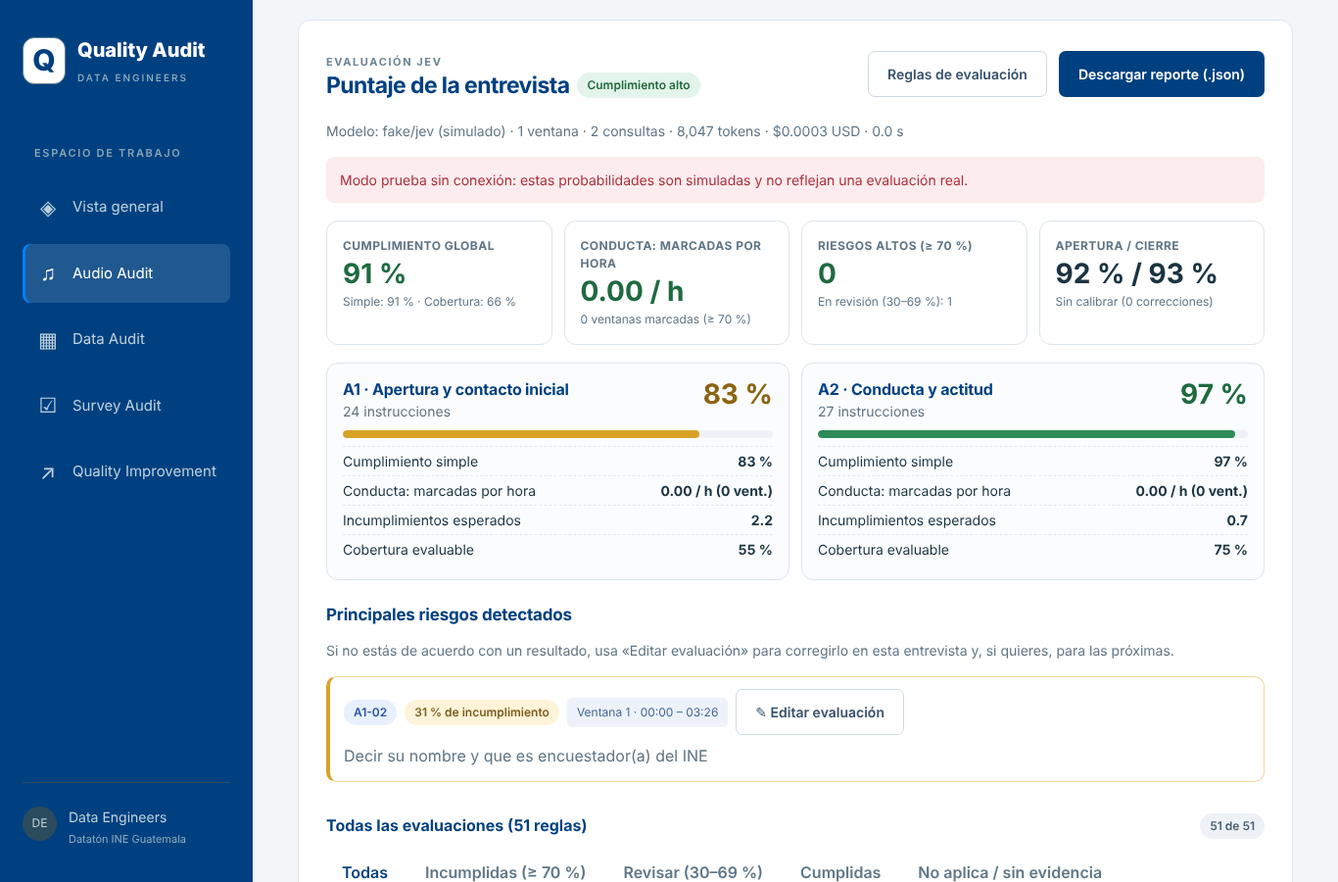
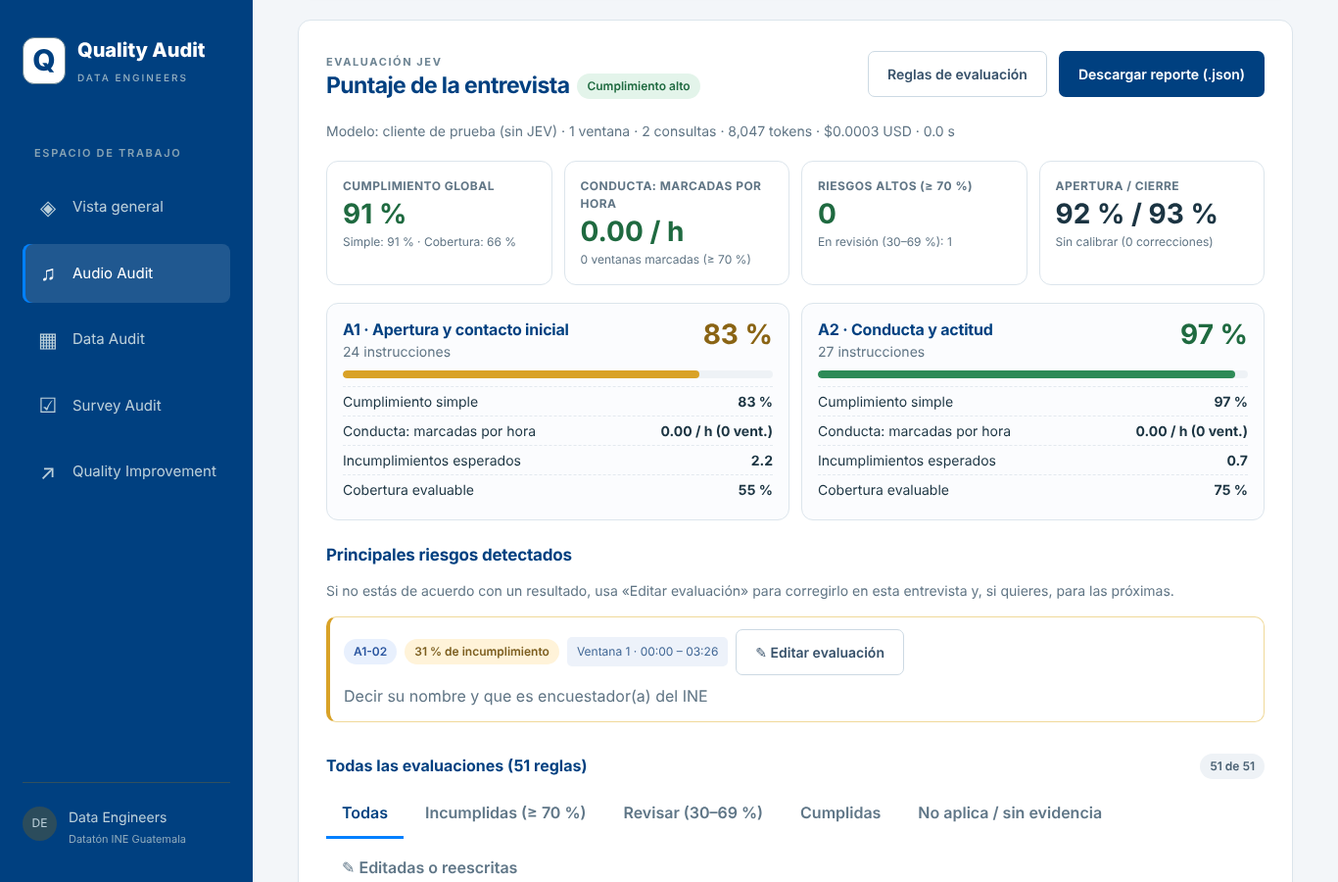
Inicio con los cuatro módulos; Audio Audit sin ejemplo ni modo de prueba
- Vista general: tarjetas de Audio Audit, Data Audit, Survey Audit y Quality
  Improvement, cada una con su descripción y botón.
- Audio Audit: se quita el botón «Cargar ejemplo ENCOVI» y la casilla de modo
  de prueba; sin OPENROUTER_API_KEY se avisa que falta la llave.
- La entrevista ENCOVI sintética queda en documentation/ejemplos para cargarla
  como transcripción; capturas y documentación actualizadas.

Claude-Session: https://claude.ai/code/session_019V7GBCsyFM1Th2xXTWXqYi

diff --git a/interfaz/src/audio.ts b/interfaz/src/audio.ts
@@ -122,7 +122,6 @@ export function mountAudio(): { abrir: (jobId: string, audioLocal?: string) => P
   let audioUrl: string | null = null;
   let roles: Record<string, Rol> = {};
   let primeraVisita = true;
-  let simulado = false;
   let reproductor: HTMLAudioElement | null = null;
   let lista: HTMLElement | null = null;
 
@@ -144,7 +143,7 @@ export function mountAudio(): { abrir: (jobId: string, audioLocal?: string) => P
       chip(jevListo ? `Evaluación JEV lista · ${estado?.jev_model ?? ''}` : 'Evaluación JEV: falta la llave OPENROUTER_API_KEY', jevListo ? 'ok' : 'warn'),
       button(`Reglas de evaluación (${reglas.length || 51})${estado?.customized_rules_count ? ` · ${estado.customized_rules_count} editadas` : ''}`, () => abrirCatalogo(), 'secondary'),
       button(calibracion?.is_calibrated ? `Calibración activa (${Object.values(calibracion.groups ?? {}).filter(g => g.fitted).length} grupos)` : `Calibración: ${calibracion?.total_labels ?? 0} correcciones`, () => abrirCalibracion(), 'secondary'));
-    const aviso = jevListo ? null : h('p', { class: 'muted', text: 'Para calcular el puntaje con JEV, agrega OPENROUTER_API_KEY (secreta) en las variables de Vercel. Mientras tanto puedes usar el modo de prueba, con puntajes simulados.' });
+    const aviso = jevListo ? null : h('p', { class: 'muted', text: 'Para calcular el puntaje con JEV, agrega OPENROUTER_API_KEY (secreta) en las variables de Vercel..' });
 
     const archivo = input('file', '', { accept: '.json,.txt,application/json,text/plain' });
     const cargar = button('Cargar transcripción', () => run(cargar, msg, async () => {
@@ -157,11 +156,6 @@ export function mountAudio(): { abrir: (jobId: string, audioLocal?: string) => P
       await mostrar(t, null); void refrescar();
       return 'Transcripción cargada. Asigna los roles y evalúa la entrevista.';
     }), 'primary');
-    const ejemplo: HTMLButtonElement | null = estado?.example_available === false ? null : button('Cargar ejemplo ENCOVI', () => run(ejemplo, msg, async () => {
-      const t = await api<Trabajo>('transcript/example', 'POST');
-      await mostrar(t, null); void refrescar();
-      return 'Ejemplo cargado.';
-    }), 'secondary');
 
     const historial = recientes.length ? h('div', { class: 'historial-audio' }, ...recientes.slice(0, 10).map(j => {
       const b = h('button', { type: 'button', class: `historial-item${actual?.job_id === j.job_id ? ' activo' : ''}` },
@@ -177,7 +171,7 @@ export function mountAudio(): { abrir: (jobId: string, audioLocal?: string) => P
       h('div', { class: 'editor-grid audio-extra' },
         h('section', { class: 'card' }, h('h2', { text: '¿Ya tienes la transcripción?' }),
           h('p', { class: 'muted', text: 'Sube un JSON de turnos o un TXT con marcas de hablante (por ejemplo, los que descargas aquí) para evaluarlo sin volver a transcribir.' }),
-          field('Transcripción (.json o .txt)', archivo), h('div', { class: 'form-actions' }, cargar, ejemplo)),
+          field('Transcripción (.json o .txt)', archivo), h('div', { class: 'form-actions' }, cargar)),
         h('section', { class: 'card' }, h('h2', { text: 'Entrevistas recientes' }), historial)));
   }
 
@@ -268,13 +262,11 @@ export function mountAudio(): { abrir: (jobId: string, audioLocal?: string) => P
     });
     const primera = input('checkbox'); primera.checked = primeraVisita;
     primera.addEventListener('change', () => { primeraVisita = primera.checked; });
-    const prueba = input('checkbox'); prueba.checked = simulado;
-    prueba.addEventListener('change', () => { simulado = prueba.checked; });
     const evaluar = button(t.evaluation ? 'Volver a evaluar con JEV' : 'Evaluar con JEV', () => run(evaluar, local, async () => {
       if (!Object.values(roles).includes('ENCUESTADOR')) throw new Error('Indica qué hablante es el encuestador antes de evaluar.');
-      if (!simulado && !estado?.openrouter_configured) throw new Error('Falta la llave OPENROUTER_API_KEY en el servidor. Agrégala en Vercel o activa el modo de prueba.');
-      local.show(simulado ? 'Calculando una evaluación simulada…' : 'Evaluando la entrevista con JEV… puede tardar unos minutos.');
-      const nuevo = await api<Trabajo>(`jobs/${encodeURIComponent(t.job_id)}/evaluate`, 'POST', { speaker_map: roles, first_contact: primeraVisita, mock: simulado }, 300_000);
+      if (!estado?.openrouter_configured) throw new Error('Falta la llave OPENROUTER_API_KEY en el servidor. Agrégala en las variables de Vercel.');
+      local.show('Evaluando la entrevista con JEV… puede tardar unos minutos.');
+      const nuevo = await api<Trabajo>(`jobs/${encodeURIComponent(t.job_id)}/evaluate`, 'POST', { speaker_map: roles, first_contact: primeraVisita, mock: false }, 300_000);
       actual = nuevo; pintar(); void refrescar();
       window.setTimeout(() => zona.querySelector('.reporte-jev')?.scrollIntoView({ behavior: 'smooth', block: 'start' }), 120);
     }), 'primary');
@@ -309,7 +301,6 @@ export function mountAudio(): { abrir: (jobId: string, audioLocal?: string) => P
         h('p', { class: 'muted', text: 'Confirma quién es el encuestador y quién el informante; luego ejecuta la evaluación. Se aplican las reglas que hayas reescrito.' }),
         h('div', { class: 'roles-hablantes' }, ...selects),
         h('label', { class: 'check' }, primera, 'Primera visita / contacto inicial (evalúa las reglas de apertura A1)'),
-        h('label', { class: 'check' }, prueba, 'Modo de prueba (puntajes simulados, sin consultar a JEV)'),
         h('div', { class: 'form-actions' }, evaluar), local),
       leyendaEl, lista);
   }
@@ -507,7 +498,7 @@ export function mountAudio(): { abrir: (jobId: string, audioLocal?: string) => P
         update_future_rule: conRegla, rule_override: conRegla ? form.datos() : null,
       });
       actual = resp.job;
-      if (reevaluar) actual = await api<Trabajo>(`jobs/${encodeURIComponent(t.job_id)}/evaluate`, 'POST', { speaker_map: roles, first_contact: primeraVisita, mock: simulado }, 300_000);
+      if (reevaluar) actual = await api<Trabajo>(`jobs/${encodeURIComponent(t.job_id)}/evaluate`, 'POST', { speaker_map: roles, first_contact: primeraVisita, mock: false }, 300_000);
       m.cerrar(); pintar(); void refrescar();
       msg.show(reevaluar ? 'Cambios guardados y entrevista evaluada de nuevo.' : 'Evaluación corregida.');
     };

diff --git a/interfaz/index.html b/interfaz/index.html
@@ -41,10 +41,12 @@
       <section id="inicio" class="page" aria-labelledby="inicioTitle">
         <p class="eyebrow">CALIDAD DE INFORMACIÓN / VISTA GENERAL</p>
         <h1 id="inicioTitle" tabindex="-1">Cada dato cuenta.<br><span>Su calidad también.</span></h1>
-        <p class="lead">Un solo espacio para transformar entrevistas en evidencia y revisar la calidad de los registros institucionales.</p>
+        <p class="lead">Un solo espacio para prevenir errores al capturar, verificar entrevistas, depurar los registros institucionales y evitar que los errores se repitan.</p>
         <div class="module-grid">
-          <article class="card module-card"><div class="module-symbol blue" aria-hidden="true">♫</div><span class="eyebrow">ENTREVISTAS Y CONVERSACIONES</span><h2>Audio Audit</h2><p>Escucha, transcribe y revisa entrevistas con marcas de tiempo e identificación de hablantes.</p><ul class="feature-list"><li>Transcripción en español</li><li>Reducción de ruido y separación de voces</li><li>Audio y texto en una misma vista</li></ul><a class="button primary" href="#audio">Transcribir entrevista</a></article>
-          <article class="card module-card"><div class="module-symbol teal" aria-hidden="true">▦</div><span class="eyebrow">REGISTROS ADMINISTRATIVOS</span><h2>Data Audit</h2><p>Evalúa las bases recibidas y encuentra problemas de calidad antes de continuar con el análisis.</p><ul class="feature-list"><li>Validación por base y período</li><li>Resultados por dimensión de calidad</li><li>Hallazgos y archivos para revisión</li></ul><a class="button primary teal-button" href="#datos">Auditar una base</a></article>
+          <article class="card module-card"><div class="module-symbol blue" aria-hidden="true">♫</div><span class="eyebrow">SUPERVISIÓN DE ENTREVISTAS</span><h2>Audio Audit</h2><p>Transcribe la grabación de una entrevista y evalúa si el encuestador siguió el protocolo del manual, con la evidencia de cada minuto.</p><ul class="feature-list"><li>Transcripción en español con separación de voces</li><li>Evaluación de 51 reglas del manual con JEV</li><li>Puntaje, riesgos y corrección del auditor</li></ul><a class="button primary" href="#audio">Evaluar una entrevista</a></article>
+          <article class="card module-card"><div class="module-symbol teal" aria-hidden="true">▦</div><span class="eyebrow">REGISTROS ADMINISTRATIVOS</span><h2>Data Audit</h2><p>Revisa las bases que envían las instituciones, corrige lo seguro y deja el resto como sugerencias para aprobar.</p><ul class="feature-list"><li>33 reglas en 7 dimensiones de calidad</li><li>Bandeja de correcciones con catálogos oficiales</li><li>Base corregida, bitácora y reporte</li></ul><a class="button primary teal-button" href="#datos">Auditar una base</a></article>
+          <article class="card module-card"><div class="module-symbol blue" aria-hidden="true">☑</div><span class="eyebrow">CAPTURA VALIDADA</span><h2>Survey Audit</h2><p>Convierte el cuestionario en PDF en un formulario que solo acepta respuestas válidas y compara lo registrado con la grabación.</p><ul class="feature-list"><li>Formulario con catálogos y saltos desde el PDF</li><li>Validación al capturar y al finalizar</li><li>Verificación contra la grabación con evidencia</li></ul><a class="button primary" href="#encuestas">Crear un formulario</a></article>
+          <article class="card module-card"><div class="module-symbol teal" aria-hidden="true">↗</div><span class="eyebrow">MEJORA CONTINUA</span><h2>Quality Improvement</h2><p>Convierte los hallazgos de Data Audit en recomendaciones aprobadas y en un manual para la institución que envía los datos.</p><ul class="feature-list"><li>Recomendaciones por institución, base y período</li><li>Revisión y aprobación con cargo</li><li>Manual institucional en PDF</li></ul><a class="button primary teal-button" href="#mejora">Generar recomendaciones</a></article>
         </div>
         <section class="workflow" aria-label="Flujo de trabajo"><div><span>CARGA</span><h3>Selecciona tu archivo</h3><p>Audio de entrevista o base institucional.</p></div><div><span>PROCESA</span><h3>Obtén una primera lectura</h3><p>Transcripciones y controles de calidad.</p></div><div><span>REVISA</span><h3>Decide con evidencia</h3><p>La revisión técnica sigue en tus manos.</p></div></section>
       </section>

diff --git a/documentation/user-guide.md b/documentation/user-guide.md
@@ -12,7 +12,7 @@ Guía para el personal técnico del INE y de las instituciones. No se necesitan 
 
 ## 2. Navegación
 
-El menú de la izquierda tiene cinco opciones. **Vista general** resume la plataforma; las otras cuatro son los módulos.
+El menú de la izquierda tiene cinco opciones. **Vista general** muestra los cuatro módulos, cada uno con su descripción y un botón para empezar: **Evaluar una entrevista** (Audio Audit), **Auditar una base** (Data Audit), **Crear un formulario** (Survey Audit) y **Generar recomendaciones** (Quality Improvement).
 
 ![Vista general](img/02-inicio.png)
 
@@ -85,7 +85,7 @@ Para cerrar, registrar la **decisión técnica** (aprobar o rechazar la base) co
 
 ## 4. Audio Audit: supervisar una entrevista
 
-**Ejemplo para practicar:** botón **Cargar ejemplo ENCOVI** (entrevista sintética con incumplimientos sembrados).
+**Ejemplo para practicar:** `entrevista_encovi_sintetica.json` (entrevista ENCOVI sintética con incumplimientos sembrados), cargado desde **¿Ya tienes la transcripción?**.
 
 ### 4.1 Transcribir una grabación
 
@@ -101,7 +101,7 @@ Si ya se tiene la transcripción, usar **¿Ya tienes la transcripción? → Carg
 
 1. En **Evaluar la entrevista con JEV**, indicar qué voz es *Encuestador(a)*, *Informante* u *Otra persona*. Debajo de cada voz se muestran sus primeras frases para reconocerla.
 2. Marcar **Primera visita / contacto inicial** si se deben evaluar las reglas de apertura.
-3. Pulsar **Evaluar con JEV**. Si el servidor no tiene configurado JEV, se puede usar el **Modo de prueba**, que muestra puntajes simulados claramente identificados como tales.
+3. Pulsar **Evaluar con JEV**. La evaluación tarda de segundos a unos minutos según la duración de la entrevista.
 
 ![Asignar roles](img/21-audio-roles.png)
 
@@ -111,6 +111,8 @@ Si ya se tiene la transcripción, usar **¿Ya tienes la transcripción? → Carg
 - **Cumplimiento global** y por sección (A1 Apertura y contacto inicial, A2 Conducta y actitud), **cobertura** (cuántas reglas se pudieron evaluar) y **conducta marcada por hora**.
 - **Principales riesgos**: cada uno con la regla, la probabilidad de incumplimiento, el minuto y la frase de la grabación que lo respalda.
 - **Todas las evaluaciones (51 reglas)** con filtros: incumplidas, a revisar, cumplidas, no aplica.
+
+Las capturas de esta sección se tomaron en el entorno de pruebas con un cliente JEV de prueba (indicado en la línea «Modelo»), sin consumir la API.
 
 ![Puntaje](img/22-audio-puntaje.png)
 ![Riesgos](img/23-audio-riesgos.png)
@@ -202,5 +204,5 @@ Cada respuesta queda como **Coincide**, **No coincide** o **No verificable**, co
 | «El archivo supera el límite» | Dividir el archivo (máximo 50 MB). |
 | La lectura del PDF parece detenida | Esperar: si el servicio de IA está ocupado, la plataforma reintenta sola. Se puede continuar después. |
 | «Primero vincula la transcripción» | Hacer el paso 5.3.1 antes de validar. |
-| El puntaje de audio dice «simulado» | El servidor no tiene JEV configurado; el resultado no es una evaluación real. |
+| «Falta la llave OPENROUTER_API_KEY» al evaluar | El administrador debe configurar JEV en el servidor. |
 | Se aprobó una corrección por error | Data Audit → **Correcciones guardadas** → quitarla y volver a validar la base. |

diff --git a/documentation/testing.md b/documentation/testing.md
@@ -14,7 +14,7 @@ Estado: ✅ verificado · 🟡 parcial (con la limitación indicada).
 | T02 | **Inicio de servicios** | — | `uvicorn api.index:app`; `vite preview`; `/api/salud` | API e interfaz responden; protección por host | `{"ok":true,"login":false,"entorno":"local"}`; `/api/qa/bases` lista 5; host ajeno → 403 | ✅ |
 | T03 | **Carga de audio** | Audio de prueba (sin voz) y Supabase simulado | Pedir URL firmada, subir y crear trabajo | URL firmada, archivo en bucket privado, `job_id` | Flujo completo con almacenamiento simulado (`flujo.py`: «FLUJO OK»); límite de 50 MB validado en la interfaz | 🟡 con Storage simulado; en producción lo usa el equipo |
 | T04 | **Transcripción** | — | AssemblyAI / Deepgram / WhisperX | Turnos con hablante y tiempos | Sin grabación real autorizada; se probaron la carga de transcripciones (JSON/TXT) y la normalización de hablantes | 🟡 · **WER y DER no medidos** |
-| T05 | **Auditoría de entrevista** | Transcripción ENCOVI sintética con errores sembrados (A1-08, A1-11, A1-12, A2-10) | Asignar roles → evaluar → revisar reporte → editar una regla → calibración | Veredicto, puntaje por sección, riesgos con evidencia, edición recalcula | Evaluación simulada: 91 % global (A1 83 %, A2 97 %); tras editar una regla → 89 %; 51 reglas listadas; 30 pruebas unitarias de JEV en verde | ✅ con JEV simulado · **exactitud de JEV no medida** |
+| T05 | **Auditoría de entrevista** | Transcripción ENCOVI sintética con errores sembrados (A1-08, A1-11, A1-12, A2-10) | Cargar la transcripción → asignar roles → evaluar → revisar reporte → editar una regla → calibración | Veredicto, puntaje por sección, riesgos con evidencia, edición recalcula | Con un cliente JEV de prueba (sin consumo de API): 91 % global (A1 83 %, A2 97 %); tras editar una regla → 89 %; 51 reglas listadas; 30 pruebas unitarias de JEV en verde | ✅ con cliente JEV de prueba · **exactitud de JEV no medida** |
 | T06 | **Carga de PDF** | PDF sintético de 5 páginas; Cuestionario ENCOVI 2023 (72 p.) | Subir, preparar bloques y leer | Bloques leídos; página difícil no detiene el documento | Sintético: lectura completa con una página que fuerza lectura por zonas y marcador `pagina_no_leida`. ENCOVI en producción: las 72 páginas leídas y formulario generado tras corregir la página 6 con tablas compactas y zonas; costo 1.04 USD | ✅ |
 | T07 | **Generación de formulario** | Lecturas del PDF sintético | Armar formulario, editar, finalizar | Formulario v2 con secciones, pases, tablas y sección por persona | Formulario generado y finalizado; secciones abiertas se conservan al editar | ✅ |
 | T08 | **Validación de respuestas** | Formulario piloto y generado | Capturar con errores y finalizar | Errores de obligatoriedad, tipo, catálogo, rango; pases ocultan preguntas | 6 pruebas unitarias (pases, alcance por persona, conservación de respuestas inactivas) + recorrido en navegador: 422 con lista de errores y navegación a cada pregunta | ✅ |

diff --git a/documentation/limitaciones.md b/documentation/limitaciones.md
@@ -6,7 +6,7 @@ Cada limitación indica su impacto, cómo se mitiga hoy y qué solución se prop
 
 | # | Limitación | Impacto | Mitigación actual | Solución futura |
 |---|---|---|---|---|
-| L1 | **Disponibilidad de audios reales.** No se contó con grabaciones reales autorizadas de entrevistas. | Alto: WER, DER y la exactitud de JEV no están medidos; los puntajes de audio no están validados frente a un supervisor del INE. | Transcripciones sintéticas con errores sembrados; modo de prueba claramente marcado como simulado; edición manual de cada regla. | Muestra autorizada de 20–30 entrevistas con transcripción y evaluación humana de referencia; medir WER/DER y calibrar JEV (ya implementado en `calibration.py`). |
+| L1 | **Disponibilidad de audios reales.** No se contó con grabaciones reales autorizadas de entrevistas. | Alto: WER, DER y la exactitud de JEV no están medidos; los puntajes de audio no están validados frente a un supervisor del INE. | Transcripciones sintéticas con errores sembrados; edición manual de cada regla por el auditor. | Muestra autorizada de 20–30 entrevistas con transcripción y evaluación humana de referencia; medir WER/DER y calibrar JEV (ya implementado en `calibration.py`). |
 | L2 | **Procesamiento del lenguaje.** El ASR y JEV están ajustados para español general; no cubren idiomas mayas ni variantes rurales con vocabulario local. | Medio–alto en áreas rurales e indígenas. | Revisión humana del texto; reglas que no se pueden evaluar quedan como «sin evidencia» en lugar de incumplidas. | Probar modelos multilingües; vocabulario personalizado; reglas específicas por idioma con el área de pueblos indígenas del INE. |
 | L3 | **Ruido acústico** (calle, animales, varias voces). | Medio: errores de transcripción y de separación de hablantes. | Filtro de ruido en modo local; el auditor asigna los roles y puede corregir. | Recomendaciones de grabación en campo; micrófono de solapa; medición del efecto del ruido. |
 | L4 | **Complejidad del PDF.** Tablas anchas, celdas combinadas y pases gráficos (flechas) son difíciles de interpretar. | Medio: el formulario generado puede tener errores. | Tablas compactas, lectura por zonas, marcador de página no leída y revisión obligatoria antes de finalizar. | Importar directamente la definición CAPI/XLSForm del INE cuando exista; plantillas por encuesta. |

diff --git a/documentation/deployment.md b/documentation/deployment.md
@@ -98,6 +98,6 @@ Vite envía `/api/*` al puerto 8000. Si no defines las variables de Supabase, no
 - **Tiempo por validación:** Data Audit procesa cada base dentro de una petición de hasta 300 s (máximo del plan Hobby de Vercel). Una base que tarde más, por ejemplo con el codificador con IA sobre muchos registros, no termina.
 - **Transcripción:** con AssemblyAI el trabajo es asíncrono y no tiene ese límite; Deepgram responde dentro de la misma petición.
 - **Pausa de Supabase:** los proyectos gratuitos se pausan tras una semana sin actividad. Entra a la plataforma antes de una presentación.
-- **Evaluación JEV:** necesita `OPENROUTER_API_KEY`; sin ella la interfaz ofrece el modo de prueba con puntajes simulados, identificados como tales. La pantalla React original de `audio-audit/` no se publica: la evaluación, el reporte, la edición, la calibración y el editor de reglas están en la interfaz común.
+- **Evaluación JEV:** necesita `OPENROUTER_API_KEY`; sin ella la interfaz avisa que falta la llave y no calcula el puntaje. La pantalla React original de `audio-audit/` no se publica: la evaluación, el reporte, la edición, la calibración y el editor de reglas están en la interfaz común.
 - **Lectura de cuestionarios:** cada petición lee un bloque de páginas en menos de 300 s y la interfaz lanza varias a la vez. Un PDF de 72 páginas tarda varios minutos; si Anthropic limita las peticiones, la interfaz reintenta sola. La página debe quedar abierta mientras se lee (se puede continuar después).
 - **Roles:** cualquier cuenta creada en Supabase tiene acceso a todo. Data Audit registra a cada usuario que entra como `analista_ine` para su bitácora.

diff --git a/documentation/guia-jurado.md b/documentation/guia-jurado.md
@@ -19,7 +19,7 @@ Ruta sugerida para entender, probar y evaluar Quality Audit sin ayuda del equipo
 |---|---|---|---|
 | 0–6 | **Data Audit** | Base *Emergencias · SECONRED*, 2025, marzo; subir `emergencias_sintetica.csv` | Puntaje por dimensión, hallazgos explicados, bandeja: aprobar «Mixcoo», elegir un código, rechazar otro; *Aplicar correcciones aprobadas*; descargar la bitácora |
 | 6–10 | **Quality Improvement** | Subir el reporte JSON descargado | Recomendaciones agrupadas con cifras reales; aprobar una con cargo; crear el manual y ver el PDF |
-| 10–15 | **Audio Audit** | *Cargar ejemplo ENCOVI* → asignar roles → *Evaluar con JEV* (modo de prueba si JEV no está configurado) | Veredicto, riesgos con minuto y frase, 51 reglas; editar una regla y ver cómo cambia el puntaje |
+| 10–15 | **Audio Audit** | *¿Ya tienes la transcripción?* → subir `entrevista_encovi_sintetica.json` → *Cargar transcripción* → asignar roles → *Evaluar con JEV* | Veredicto, riesgos con minuto y frase, 51 reglas; editar una regla y ver cómo cambia el puntaje |
 | 15–20 | **Survey Audit** | Subir `cuestionario_sintetico.pdf`, revisar y finalizar el formulario, capturar con un error, vincular `transcripcion_sintetica.json` y validar | Errores de captura, pases que ocultan preguntas, discrepancia de «horas de agua» con evidencia |
 
 Paso a paso con capturas: [manual de usuario](user-guide.md).

diff --git a/documentation/data-sources.md b/documentation/data-sources.md
@@ -78,7 +78,7 @@ Creados por el equipo. No provienen de ninguna persona, hogar ni empresa real; s
 | `documentation/ejemplos/cuestionario_sintetico.pdf` | Survey Audit | Cuestionario de 2 páginas: vivienda, tabla de equipamiento con pases y sección por persona | — (sirve para generar el formulario) |
 | `documentation/ejemplos/transcripcion_sintetica.json` | Survey / Audio Audit | Entrevista sintética en el formato que descarga Audio Audit | Se dicen «ocho horas» de agua (para comparar con lo registrado) |
 | `documentation/ejemplos/generar_ejemplos.py` | — | Script que vuelve a crear el PDF y la transcripción | — |
-| `audio-audit/encovi_jev/examples/transcript_example.json` | Audio Audit | Entrevista ENCOVI simulada, marcada SINTÉTICA | Incumplimientos A1-08, A1-11, A1-12, A2-10 |
+| `documentation/ejemplos/entrevista_encovi_sintetica.json` (copia de `audio-audit/encovi_jev/examples/transcript_example.json`) | Audio Audit | Entrevista ENCOVI simulada, marcada SINTÉTICA | Incumplimientos A1-08, A1-11, A1-12, A2-10 |
 | `interfaz/examples/datos-demostracion.csv`, `silencio-demostracion.wav` | Interfaz (modo demo) | CSV ficticio y audio de silencio | — |
 | `survey-audit/templates/pilot.synthetic.json` | Survey Audit | Formulario piloto versión 1 | — |
 

diff --git a/documentation/architecture.md b/documentation/architecture.md
@@ -256,7 +256,7 @@ La transferencia entre módulos es **manual a propósito**. Así una persona dec
 | Data Audit | PostgreSQL con esquema y configuración cargados | No hay bases para elegir |
 | Codificación con IA (Data Audit) | `ANTHROPIC_API_KEY` | Sigue con similitud de texto (RapidFuzz) |
 | Transcripción en la nube | `ASSEMBLYAI_API_KEY` o `DEEPGRAM_API_KEY` | Se puede cargar una transcripción `.json`/`.txt`, o usar WhisperX local |
-| Evaluación JEV | `OPENROUTER_API_KEY` | Solo modo de prueba (puntajes simulados, marcados como tales) |
+| Evaluación JEV | `OPENROUTER_API_KEY` | Se transcribe y se revisa el texto, pero no se calcula el puntaje |
 | Survey Audit (leer PDF y verificar) | `ANTHROPIC_API_KEY` | No se puede generar el formulario; validación y captura sí funcionan |
 | Quality Improvement | — | Sin IA usa el texto estándar de cada regla |
 

diff --git a/documentation/ia-y-servicios.md b/documentation/ia-y-servicios.md
@@ -50,7 +50,7 @@ Los precios cambian: verificar en la página de cada proveedor antes de presupue
 | Data Audit, primera carga de PNC (≈ 520 textos) | ≈ 0.014 USD | Ídem |
 | Data Audit, cargas siguientes | Una fracción de la primera | Las sugerencias se guardan y no se vuelven a pedir |
 | Data Audit sin IA | 0 | `QA_IA_PROVEEDOR=ninguno` |
-| Evaluación JEV de la entrevista de ejemplo (simulada) | El reporte muestra tokens y costo por evaluación | Campo `usage` del reporte |
+| Evaluación JEV de una entrevista | El reporte muestra los tokens y el costo de cada evaluación | Campo `usage` del reporte |
 | Generar el formulario del cuestionario ENCOVI 2023 (72 páginas) | **1.04 USD por cuestionario** | Medido con la arquitectura actual (Haiku 5.5, bloques de 2 páginas, tablas compactas y lectura por zonas) |
 
 ### Medidas de reducción de costo implementadas

diff --git a/documentation/methodology.md b/documentation/methodology.md
@@ -91,7 +91,7 @@ Reporte con veredicto, puntaje global y por sección (A1 Apertura y contacto ini
 
 | Situación | Comportamiento |
 |---|---|
-| Sin `OPENROUTER_API_KEY` | Evaluación de demostración marcada como «simulada» (no se presenta como real). |
+| Sin `OPENROUTER_API_KEY` | La interfaz avisa que falta la llave y no calcula el puntaje; la transcripción se puede revisar igual. |
 | Sin llave de transcripción | Se puede cargar una transcripción existente. |
 | Audio sin voz o un solo hablante | Las reglas sin evidencia quedan como «no se puede saber»; el veredicto puede ser «Sin evidencia suficiente». |
 | Error del proveedor | El trabajo queda en estado `error` con el mensaje; se puede reintentar. |

diff --git a/documentation/interfaz.md b/documentation/interfaz.md
@@ -52,6 +52,6 @@ npm run preview     # servir dist/ localmente
 | Pide iniciar sesión otra vez | La sesión venció o la cuenta se eliminó en Supabase → Authentication |
 | Sigue en modo demo tras editar `.env.local` | Reiniciar `npm run dev` o recompilar |
 | `/api/salud` responde `login: false` en Vercel | Faltan `VITE_SUPABASE_URL` / `VITE_SUPABASE_ANON_KEY` o `SUPABASE_URL` |
-| La evaluación de audio dice «simulada» | Falta `OPENROUTER_API_KEY` en el servidor |
+| «Falta la llave OPENROUTER_API_KEY» al evaluar | Agregar `OPENROUTER_API_KEY` en las variables del servidor |
 
 Contrato de la API: [referencia completa](api-referencia.md) y [convenciones](integration-api.md).
